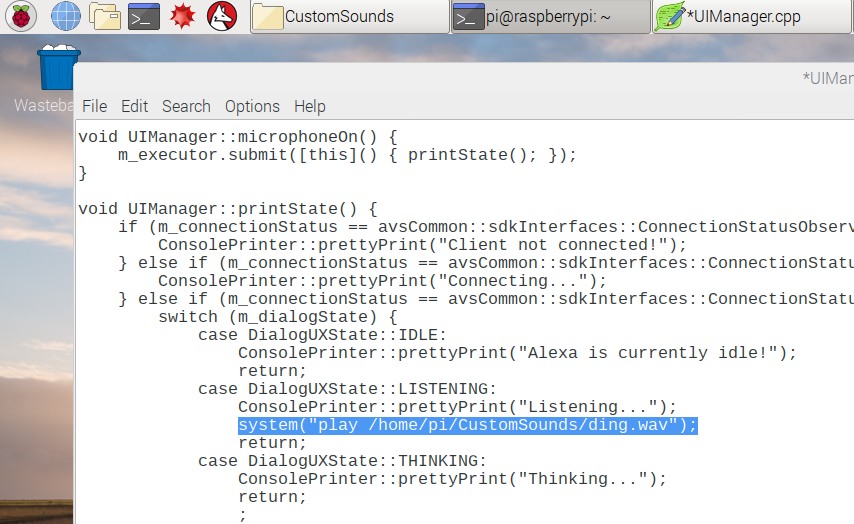
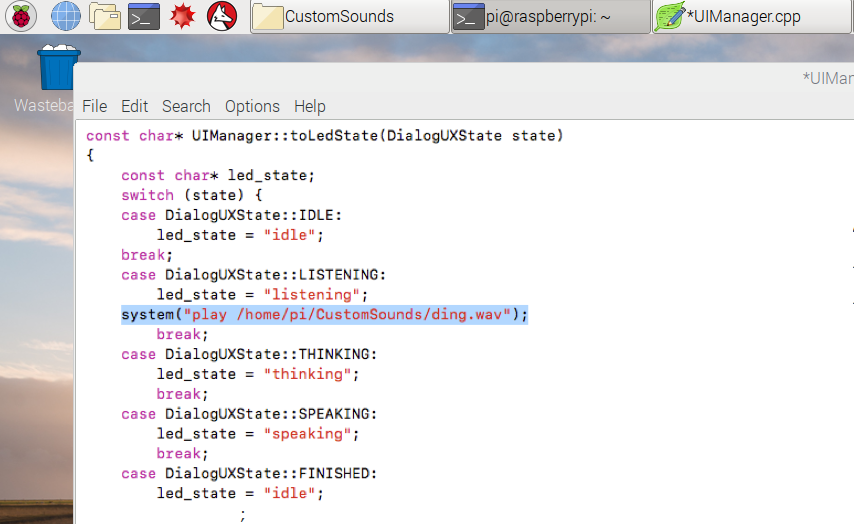
JP Localized
Fixed UIManager customize code

Changed region(s): [[0.0913, 0.2443, 1.0, 0.9771]]

diff --git a/_posts/2012-12-16-10-Add-custom-sounds.md b/_posts/2012-12-16-10-Add-custom-sounds.md
@@ -17,10 +17,10 @@ Alexa搭載製品に話しかけた際に、ウェイクワードの検知をわ
 
 ![Add_include](../assets/Play_Ding_1.png)
 
-OSイメージの中に、本エクサイズで利用できるsample.wavファイルが/home/pi/CustomSoundsフォルダ内に格納されています。オーディオキューとして利用するため、このファイルのパスを追加します。UIManagerファイルの下部に`printState()`ファンクションで、`case DialogUXState::LISTENING:`と記載されている箇所に下記のコマンドを追記します。
+OSイメージの中に、本エクサイズで利用できるテスト用WAVファイルが/home/pi/CustomSoundsフォルダ内に格納されています。オーディオキューとして利用するため、このファイルのパスを追加します。UIManagerファイルの下部に`とLedState()`ファンクションで、`case DialogUXState::LISTENING:`と記載されている箇所に下記のコマンドを追記します。
 `system("play /home/pi/CustomSounds/ding.wav");`
 
-![Add_sound](../assets/Play_Ding_2.png)
+![Add_sound](../JP/assets/Play_Ding_2.png)
 
 テキストファイルを閉じる前に保存します。オーディオファイルを再生させるためには、**sox**をダウンロードし、修正を反映させるためにサンプルアプリを再コンパイルします。はじめに、"**q**"を入力し、**エンター**を押すことで、起動しているサンプルアプリを終了させます。(起動している場合のみ) 
 ターミナルを起動して、下記を実行:
